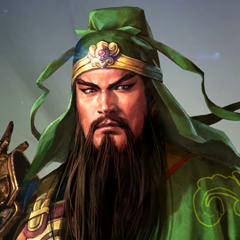
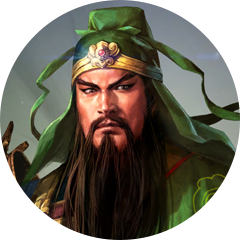
#3 圆角头像，双击编辑

Changed region(s): [[0.0, 0.525, 1.0, 1.0], [0.525, 0.0, 1.0, 0.4958], [0.0, 0.0, 0.4667, 0.4667]]

diff --git a/browser/js/controllers/RelationChartController.js b/browser/js/controllers/RelationChartController.js
@@ -3,11 +3,11 @@
   
   angular.module('aoiHana')
        .controller('RelationChartController', [     
-          '$scope', 'peopleService',      
+          '$scope', '$rootScope', 'peopleService',      
           RelationChartController
        ]);
 
-  function RelationChartController($scope, peopleService) {
+  function RelationChartController($scope, $rootScope, peopleService) {
       
       peopleService
         .loadAllPeoples()
@@ -24,7 +24,7 @@
                     node.symbolSize = 10;
                 }                
                 // 自定义图片 
-                node.symbol = 'image://../image/head/' + (node.avatar || 'default') + '.png';
+                node.symbol = 'image://../image/head/' + (node.avatar || 'default') + '.png';                              
                 node.itemStyle = {
                     normal: {
                         borderRadius: '50%'
@@ -103,6 +103,15 @@
                     edgeLength: 100,
                     repulsion: 120
                 },
+                // itemStyle: {
+                //     normal: {
+                //         nodeStyle: {
+                //             brushType: 'both',
+                //             strokeColor: 'rgba(255,215,0,0.4)',
+                //             lineWidth: 8
+                //         }
+                //     }  
+                // },
                 lineStyle: {
                     normal: {                        
                         curveness: 0.3
@@ -111,7 +120,11 @@
                 links: $scope.links
             }]
         };          
-        });       
+        });  
+        
+        $scope.editPeople = function(option, data) {
+            $rootScope.$broadcast('showEditPeopleDialog', data);
+        }       
   }
     
 })();

diff --git a/browser/js/directives/echart.js b/browser/js/directives/echart.js
@@ -15,7 +15,9 @@
       template: '<div style="width: 1000px;height:600px;"></div>',
       replace: true /* tag will be replaced as div, otherwise echart cannot find a container to stay. */,
       scope: {
-        options: '='//,
+        options: '=',
+        click: '=onClick',
+        doubleClick: '=onDoubleClick'
         // data: '='
       },
       controller: ['$scope', '$element',
@@ -42,6 +44,29 @@
                   chart.setOption(option);
               }
           })
+          
+          // 定义事件
+          if($scope.click) {
+              chart.on('click', function (param) {
+                var option = chart.getOption();
+                var data = param.data;
+                // 判断节点的相关数据是否正确
+                if (data != null && data != undefined) {
+                    $scope.click(option, data);
+                }
+              });
+          }
+          
+          if($scope.doubleClick) {
+              chart.on('dblclick', function (param) {
+                var option = chart.getOption();
+                var data = param.data;
+                // 判断节点的相关数据是否正确
+                if (data != null && data != undefined) {
+                    $scope.doubleClick(option, data);
+                }
+              });
+          }
           
           // 下面是echarts2的
         //  chart.setOption(options, /*overwrite=*/true);

diff --git a/browser/js/controllers/PeopleController.js b/browser/js/controllers/PeopleController.js
@@ -3,12 +3,12 @@
   
   angular.module('aoiHana')
        .controller('PeopleController', [
-          'peopleService', '$mdDialog',
+          '$rootScope', 'peopleService', '$mdDialog',
           PeopleController
        ]);
 
-  function PeopleController(peopleService, $mdDialog) {
-    var self = this;
+  function PeopleController($rootScope, peopleService, $mdDialog) {
+    var self = this;       
 
     self.selected     = null;
     self.peoples        = [ ];
@@ -52,8 +52,12 @@
                 self.selected = result.selected;            
             }, function() {                
             });
-    };
-   
+    };     
+    
+    $rootScope.$on('showEditPeopleDialog', function(event, msg) {
+        self.selected = _.find(self.peoples, {'_id': msg._id});;        
+        self.showEditPeopleDialog(undefined);
+    });
 
   }
   

diff --git a/static/view/partials/editPeopleBasic.html b/static/view/partials/editPeopleBasic.html
@@ -98,7 +98,8 @@
             <div flex="5" hide-xs hide-sm>
             <!-- Spacer //-->
             </div>
-            <md-input-container class="md-block" flex="300">               
+            <md-input-container class="md-block" flex="300">   
+                <img ng-src="../image/head/{{people.avatar || 'default'}}.png" class="avatar" />    
             </md-input-container>
             <div flex="5" hide-xs hide-sm>
             <!-- Spacer //-->

diff --git a/static/view/partials/relationchart.html b/static/view/partials/relationchart.html
@@ -1,4 +1,4 @@
 <!-- 为ECharts准备一个具备大小（宽高）的Dom -->
 <div ng-controller="RelationChartController">
-    <echart options="option" />    
+    <echart options="option" on-double-click="editPeople" />    
 </div>
